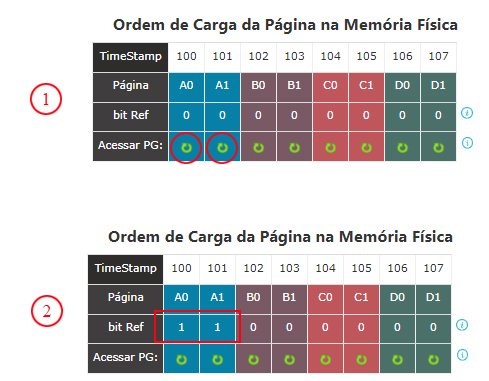
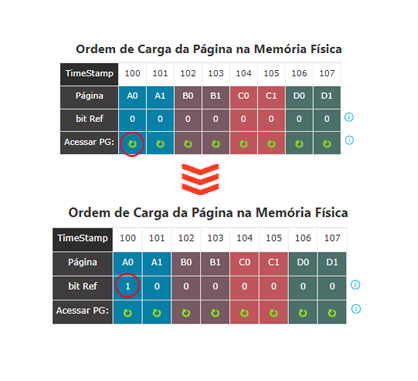
Alteração nos textos dos modals e ajuste nas notificações

diff --git a/app.js b/app.js
@@ -179,7 +179,21 @@ $scope.carregarPagina = function(processo){
 						
 							if($scope.listaFIFO[0].bitRef == 0 )
 							{
-								$.notify("Substituição com Segunda Chance:\n Remove "+ $scope.listaFIFO[0].nome +" -> Carrega: "+processo.nome, {arrowSize: 7,className: 'success',position:"bottom right",autoHideDelay: 10000});
+									$.notify("Substituição com Segunda Chance:\n Remove: "+ 
+									$scope.listaFIFO[0].nome, 
+									{
+										position:"bottom right",
+										showDuration: 1000,
+										className: "error",
+										autoHideDelay: 19000
+									});
+									$.notify("Substituição com Segunda Chance:\n Carrega: "+ processo.nome, 
+									{	
+										position:"bottom right",
+										className: "success",
+										showDuration: 1000,
+										autoHideDelay: 19000
+									});
 								$scope.removePagina($scope.listaFIFO[0].processoL,false);
 								$scope.memoriaF[indiceTMF].nome = processo.nome;
 								$scope.memoriaF[indiceTMF].cor = processo.cor;
@@ -199,7 +213,28 @@ $scope.carregarPagina = function(processo){
 							else if($scope.listaFIFO[0].bitRef == 1)
 							{
 								$scope.memoriaF[indiceTMF].horaCarga = cont;
-								$.notify("Página "+ $scope.memoriaF[indiceTMF].processoL.nome +" Recebeu a Segunda Chance \n com novo TIMESTAMP: "+$scope.memoriaF[indiceTMF].horaCarga,{arrowSize: 7,position:"bottom right",autoHideDelay: 10000},'warning');
+								$.notify("Página "+ 
+									$scope.memoriaF[indiceTMF].processoL.nome +" \nRecebeu a Segunda Chance, \n movido para final da fila ",
+										{
+											position:"bottom right",
+											showDuration: 900,
+											autoHideDelay: 19000
+										});
+								$.notify("Página "+ 
+									$scope.memoriaF[indiceTMF].processoL.nome +" \n TIMESTAMP atualizado para: "+
+									$scope.memoriaF[indiceTMF].horaCarga,
+										{
+											position:"bottom right",
+											showDuration: 900,
+											autoHideDelay: 19000
+										});
+								$.notify("Página "+ 
+									$scope.memoriaF[indiceTMF].processoL.nome +" \n bit de referência alterado para: 0",
+										{
+											position:"bottom right",
+											showDuration: 900,
+											autoHideDelay: 19000
+										});
 								$scope.memoriaF[indiceTMF].bitRef = 0;
 								$scope.listaFIFO.splice(0,1);
 								$scope.listaFIFO.push($scope.memoriaF[indiceTMF])

diff --git a/index.html b/index.html
@@ -408,7 +408,8 @@
 				</div>
 				<div class="modal-body">
 				<p style="line-height: 1.5; text-align: justify;" > 
-					O algoritmo de Segunda Chance é uma melhoria do algoritmo FIFO, que verifica o bit de referência antes de realizar a substituição da página. Percorrendo todas as páginas de forma circular em uma fila ordenada por tempo de carga na memória, o algoritmo permite que páginas que foram acessadas recentemente recebam uma segunda chance ao ser avaliada para ser a página vítima. <br>
+					No algoritmo de Segunda Chance verifica-se o bit de referência antes de realizar a substituição da página. <br>
+					Todas as páginas são percorridas de forma circular em uma fila ordenada por Timestamp, de forma que as páginas que tem o bit de referência 1 (indica que foram acessadas recentemente) recebem uma segunda chance e vão para o final da fila (timestamp atualizado e bit de referência alterado para 0). A primeira página que tem o bit de referência 0 (não foi acessada recentemente) é escolhida como vítima. <br>
 					<br><img src="assets/second_chance_chart.jpg" width="98%" >
 				</p>
 				</div>
@@ -516,10 +517,7 @@
 				</div>
 				<div class="modal-body">
 				<p style="line-height: 1.8; text-align: justify;" > 
-					A coluna Acessar PG permite simular o ciclo de acesso do processador e ser clicado o usuário 
-					pode alternar o valor da coluna bit Ref entre 0 e 1 conforme desejar, assim o usuário poderá criar situações 
-					e observar como o algoritmo de Segunda Chance irá lidar com ela.
-					<br>
+					A opção “Acessar PG” permite alterar o bit de referência da página – bit de referência 1 indica que a página foi acessada recentemente.
 					<br>
 					<img src="assets/status_bit.jpg" width="90%" height="90%" style="padding-left: 5.5%;">				
 				</p>
